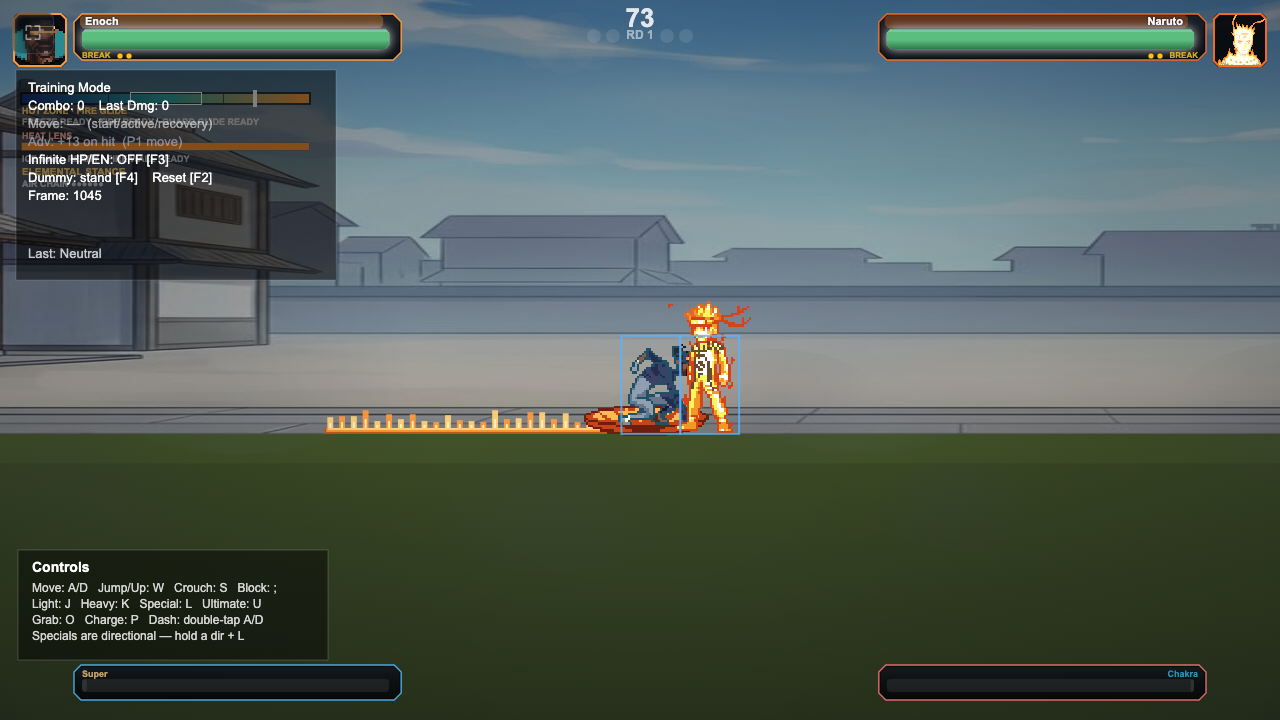
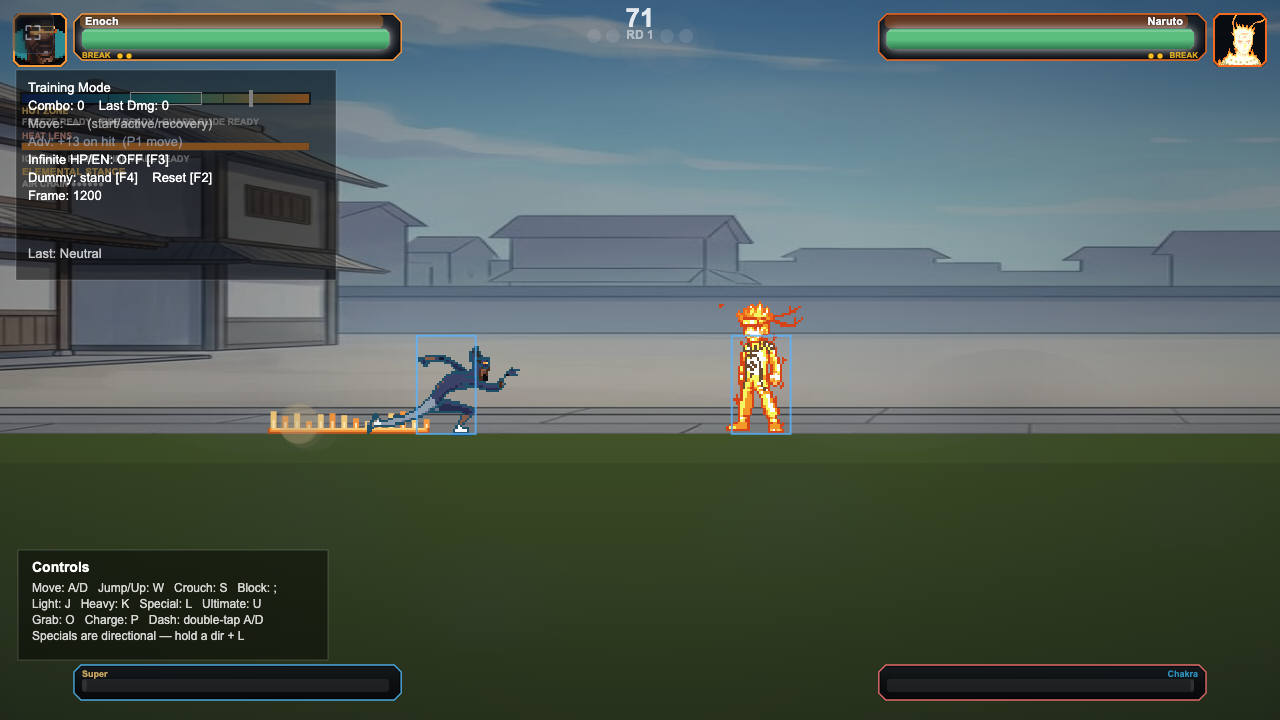
Enoch: double-tap dash is back (hold = the slide), smoother flow (input buffer, block cancels, jump + dash cancels); Controls Lab zoom uses the game camera so the HUD is never cut off
- Double-tap = the engine dash again, leaving a streak of ice (fire when hot); keep holding 12 f -> the ground slide.
- FLOW: 16 f input buffer on every cancel; cancels open on hit OR block; jump cancel + buffered dash cancel on a hit;
  air attack / Ice Blast / meteors cancel into another special (air -> meteor).
- Controls Lab: the game picture always fits the panel (no more magnified/cropped HUD); Zoom tightens the iframe
  game's own camera (padding / zoom, zoom cap x zoom). OFF / 1.25x / 1.5x.
- Tests: enoch_slide_slab 14/0 (dash, buffer, jump/dash cancels); playall 9/0 (camera zoom). Held: det 14/0,
  combo-standard 233/9, up-attack 77/2, credits 11/3, roster PASS, frame-data 16/0, Frozone 131/0, all Enoch suites,
  controls_lab 37/0, links 13/0, combos 180/0.

diff --git a/enochState.js b/enochState.js
@@ -17,7 +17,7 @@
 // Reused shared systems: `_supFrozen` freeze status (combat.js), platforms.js, beam.js (Homelander's algorithm), Elastigirl's
 // motion parser, damageType tags. Hit volumes are ENGINE projectiles (W.spawn, tagged _en) so guard, chip and combo scaling
 // apply; direct damage (bursts, beam, patches, supers) goes through W.damage with a damageType tag.
-import { ALL_MOVES, ICE_BLAST, FROST_FLOOR, HEAT_LENS, LASER, WALLS, WALL_STEAM, CHANNEL, STATUS, TWIN, AIR_SLIDE, CAGE, METEOR, SNOWMAN, MELT, PATCH_LIFE, GROUND_SLIDE, ICE_FLOOR, SLAB, SCORCH, CONDENSE, TIDE, DISC, GLIDE, GUARD_CANCEL, METER, SUPERS, SUPER_LOCK, dmg } from './enochData.js'
+import { ALL_MOVES, ICE_BLAST, FROST_FLOOR, HEAT_LENS, LASER, WALLS, WALL_STEAM, CHANNEL, STATUS, TWIN, AIR_SLIDE, CAGE, METEOR, SNOWMAN, MELT, PATCH_LIFE, GROUND_SLIDE, ICE_FLOOR, SLAB, FLOW, SCORCH, CONDENSE, TIDE, DISC, GLIDE, GUARD_CANCEL, METER, SUPERS, SUPER_LOCK, dmg } from './enochData.js'
 import { ENOCH_LENS, ENOCH_ANIM } from './enochSprites.js'
 const ENOCH_ANIM_HIT = strip => ENOCH_ANIM[strip]?.hit ?? 1   // the visor fires on the strip's HIT frame
 import { registerThermal, createThermal, thermalCheck, thermalPush, thermalTick, thermalZone, createField, addPatch, removePatch, convertPatch,
@@ -659,12 +659,21 @@ export function enochLocked(f, raw = null) {
   if (g && free && f._dashTap) {
     const here = patchesAt(s.field, ctrX(f), feetY(f)).filter(p => p.type === 'ice' || p.type === 'fire')
     if (here.length && startGlide(f, s, here[here.length - 1].type, f.facing || 1, 'tap')) { f._dashTap = false; glideStep(f, s, { ...r, [f.facing === -1 ? 'left' : 'right']: true }); return true }
-    // GROUND SLIDE: anywhere else (elemental stance) the double-tap is a slide that turns the floor to ICE — FIRE when hot.
-    // The direction held picks the way; a locked element (an overload) falls back to the plain dash.
-    const type = twinOf(f) === 'fire' ? 'fire' : 'ice', dir = r.right && !r.left ? 1 : r.left && !r.right ? -1 : (f.facing || 1)
-    if (s.stance !== 'ice' && check(f, type).ok && startGlide(f, s, type, dir, 'tap')) {
-      f._dashTap = false; s.stats.groundSlides++; lay(f, s, WREF.W, { type, cx: ctrX(f), width: GLIDE.trailW, extend: true })
-      glideStep(f, s, { ...r, [dir === -1 ? 'left' : 'right']: true }); return true
+    // anywhere else: the engine's own DASH happens (not consumed here); keep holding the direction and it becomes the SLIDE
+    if (s.stance !== 'ice') s.dashHold = { dir: r.right && !r.left ? 1 : r.left && !r.right ? -1 : (f.facing || 1), k: 0 }
+  }
+  // GROUND SLIDE: the dash with the direction still held → a slide that turns the floor to ICE (FIRE when hot);
+  // an element that's locked (an overload) just leaves the dash as it is
+  if (s.dashHold) {
+    const H = s.dashHold, held = H.dir === 1 ? r.right && !r.left : r.left && !r.right
+    if (!g || !free || !held || s.glide) s.dashHold = null
+    else if (++H.k >= GROUND_SLIDE.holdFrames) {
+      s.dashHold = null
+      const type = twinOf(f) === 'fire' ? 'fire' : 'ice'
+      if (check(f, type).ok && startGlide(f, s, type, H.dir, 'tap')) {
+        f._dashTap = false; s.stats.groundSlides++; lay(f, s, WREF.W, { type, cx: ctrX(f), width: GLIDE.trailW, extend: true })
+        glideStep(f, s, r); return true
+      }
     }
   }
   // AIR SLIDE (elemental stance; Ice Stance pours Frozone's Ice Stream from the same pool): jump, then double-tap
@@ -689,6 +698,13 @@ export function enochLocked(f, raw = null) {
     cue(f, type === 'ice' ? 'crackle' : 'fireCast'); airSlideStep(f, s, r); return true
   }
   const a = live(f)
+  // DASH CANCEL (FLOW): double-tap in the recovery of a normal / special that hit or was blocked → the dash (hold → the slide)
+  if (a && f._dashTap) s.dashBuf = { clock: s.clock, dir: r.right && !r.left ? 1 : r.left && !r.right ? -1 : (f.facing || 1) }   // held for FLOW.buffer frames
+  if (g && a && s.dashBuf && s.clock - s.dashBuf.clock <= FLOW.buffer && (a.en.clean || a.en.blocked) && FLOW.dashFrom.includes(a.en.key) && (a.total - a.timer) > (a.activeEnd ?? 0) && !(f.hitstop > 0) && s.stance !== 'ice') {
+    const dir = s.dashBuf.dir; s.dashBuf = null; endAttack(f); s.stats.dashCancels = (s.stats.dashCancels || 0) + 1
+    f.facing = dir; f.dashTimer = f.dashDuration || 8; f.dashCooldown = f.dashCooldownMax || 28; f._dashTap = false
+    s.dashHold = { dir, k: 0 }; return false
+  }
   if (a && a.en.key !== 'air' && !(a.launcher && a.hasHit)) { f._dashTap = false; return true }
   return false
 }
@@ -846,7 +862,7 @@ export function tickEnoch(f, opp, raw, W) {
   else { if (s.air.win > 0 && !s.aslide) s.air.win--; if ((f.jumpCount || 0) > s.air.jc) { s.air.armed = true; s.air.jc = f.jumpCount } }
   for (let i = s.rails.length - 1; i >= 0; i--) { const q = s.rails[i]; if (!q.live && ++q.t > AIR_SLIDE.life) { dropSlab(q); s.rails.splice(i, 1); if (q.type === 'ice') pushFx(s, 'drip', (q.x0 + q.x1) / 2, Math.max(q.y0, q.y1), 1, { w: Math.abs(q.x1 - q.x0) }) } }
   // FIRE DASH / ICE DASH (and the slide): outside the balance band his dash leaves a trail of his element
-  const tw = twinOf(f), dashing = g && !s.glide && (f.dashTimer || 0) > 0, sliding = g && live(f)?.en?.key === 'slide'
+  const tw = twinOf(f) || (s.stance !== 'ice' ? 'ice' : null), dashing = g && !s.glide && (f.dashTimer || 0) > 0, sliding = g && live(f)?.en?.key === 'slide'
   if (dashing && !s.dashWas && tw) { s.stats[tw === 'fire' ? 'fireDash' : 'iceDash']++; cue(f, tw === 'fire' ? 'fireCast' : 'crackle') }
   s.dashWas = dashing
   if (tw && (dashing || sliding) && s.tick % TWIN.trailEvery === 0) lay(f, s, W, { type: tw, cx: ctrX(f) - face * 16, width: TWIN.trailW, extend: true })

diff --git a/enoch.js b/enoch.js
@@ -16,7 +16,7 @@
 import { startMove, cancelWindowOpen, getComboScale } from './combat.js'
 import { twinOf, isEnoch, enState, startEnMove, registerEnochEngine, isEnochUltActive, switchGlide, startRamp, waterUnlocked, zoneOf, check, toggleStance } from './enochState.js'
 import { updateFrozoneCommandCombat } from './frozone.js'
-import { CHAIN, HEAVY_FROM, GLIDE, GUARD_CANCEL } from './enochData.js'
+import { CHAIN, HEAVY_FROM, GLIDE, GUARD_CANCEL, FLOW } from './enochData.js'
 
 registerEnochEngine({ startMove, comboScale: getComboScale })
 
@@ -25,7 +25,7 @@ const use = (s, k) => { if (s.edges[k]) s.used[k] = s.edges[k].tick }
 const upHeavy = s => fresh(s, 'heavy') && s.edges.heavy.tick === s.edges.upAttack?.tick   // pad Up+△ = Heavy + Up-Attack together
 const COMMITTED = new Set(['iceDisc', 'tideBreak', 'super', 'wake'])
 export const LINK_TO_NORMAL = ['heatLens']
-export const SPECIAL_FROM = ['jab', 'straight', 'heavy', 'low', 'rise', 'slide', 'frostFloor', 'deepFreeze', 'scorch', 'steamBurst']
+export const SPECIAL_FROM = ['jab', 'straight', 'heavy', 'low', 'rise', 'slide', 'frostFloor', 'deepFreeze', 'scorch', 'steamBurst', 'air', 'iceBlast', 'meteor', 'fireMeteor']
 export const SUPER_FROM = ['jab', 'straight', 'heavy', 'low', 'slide', 'frostFloor', 'deepFreeze', 'scorch', 'steamBurst', 'tideBreak', 'iceBlast', 'heatLens', 'condense', 'iceWall', 'fireWall']
 
 const meteorKey = f => twinOf(f) === 'fire' ? 'fireMeteor' : 'meteor'
@@ -90,20 +90,26 @@ export function updateEnochCommandCombat(f, inp, opp, W) {
   if (s.ramp && !g && !a && s.ramp.air > 0 && (fresh(s, 'light') || fresh(s, 'heavy') || fresh(s, 'upAttack'))) {
     use(s, 'light'); use(s, 'heavy'); use(s, 'upAttack'); s.ramp.air = 0; fire('air', { bonus: GLIDE.atkBonus }); return 'consumed'
   }
-  const contact = !!a?.en?.clean && cancelWindowOpen(f)
+  const contact = !!(a?.en?.clean || a?.en?.blocked) && cancelWindowOpen(f), B = FLOW.buffer   // hit OR block opens the cancel
   // the SUPER cancels out of any clean special, committed ones included (Tide Break → Thermal Shock is the brief's combo 5)
-  if (contact && fresh(s, 'special') && SUPER_FROM.includes(a.name) && specialKey(f, s.edges.special) === 'super') {
+  if (contact && fresh(s, 'special', B) && SUPER_FROM.includes(a.name) && specialKey(f, s.edges.special) === 'super') {
     use(s, 'special'); if ((f.energy || 0) >= 100) fire('super', { cancel: true }); return 'consumed'
   }
   if (a && COMMITTED.has(a.en?.key)) return 'consumed'
-  if (contact && CHAIN[a.name] && fresh(s, 'light')) { use(s, 'light'); fire(CHAIN[a.name], { cancel: true }); return 'consumed' }
-  if (contact && LINK_TO_NORMAL.includes(a.name) && fresh(s, 'light')) { const e = s.edges.light; use(s, 'light'); fire(e.fwd ? 'straight' : 'jab', { cancel: true }); return 'consumed' }   // a clean Heat Lens → Straight / Jab
-  if (contact && SPECIAL_FROM.includes(a.name) && fresh(s, 'special')) { const k = specialKey(f, s.edges.special); use(s, 'special'); if (k !== a.name) fire(k, { cancel: true }); return 'consumed' }
-  if (contact && fresh(s, 'heavy')) {
+  if (contact && CHAIN[a.name] && fresh(s, 'light', B)) { use(s, 'light'); fire(CHAIN[a.name], { cancel: true }); return 'consumed' }
+  if (contact && LINK_TO_NORMAL.includes(a.name) && fresh(s, 'light', B)) { const e = s.edges.light; use(s, 'light'); fire(e.fwd ? 'straight' : 'jab', { cancel: true }); return 'consumed' }   // a clean Heat Lens → Straight / Jab
+  if (contact && SPECIAL_FROM.includes(a.name) && fresh(s, 'special', B)) { const k = g ? specialKey(f, s.edges.special) : meteorKey(f); use(s, 'special'); if (k !== a.name) fire(k, { cancel: true }); return 'consumed' }
+  if (contact && fresh(s, 'heavy', B)) {
     const k = heavyKey(f, s.edges.heavy)
     if (k === 'heavy' ? HEAVY_FROM.includes(a.name) : (SPECIAL_FROM.includes(a.name) && k !== a.name)) { use(s, 'heavy'); fire(k, { cancel: true }); return 'consumed' }
   }
   if (contact && a.name === 'heavy' && fresh(s, 'upAttack')) { use(s, 'upAttack'); return 'consumed' }
+  // JUMP CANCEL (on a hit): straight up out of the normal — into the air chain, an air attack or the meteor
+  if (contact && g && a.en.clean && FLOW.jumpFrom.includes(a.name) && (fresh(s, 'jump', B) || fresh(s, 'up', B)) && !fresh(s, 'special', B) && !fresh(s, 'heavy', B) && !fresh(s, 'light', B)) {
+    use(s, 'jump'); use(s, 'up'); f.attacking = false; f.currentAttack = null; f.currentMove = null; f.attackCooldown = 0
+    f.vy = f.jumpForce || -22; f.onGround = false; f.grounded = false; f.jumpCount = 1; f.jumpHeld = true; s.stats.jumpCancels = (s.stats.jumpCancels || 0) + 1
+    return 'consumed'
+  }
   if (a && !contact) return 'consumed'
   if (!a && (f.attackCooldown > 0 || inp.block)) return 'grab'
   if (fresh(s, 'ultimate')) { use(s, 'ultimate'); if (!a && g && (f.energy || 0) >= 100) fire('super'); return 'consumed' }   // Ultimate button = the super too

diff --git a/enochKit.js b/enochKit.js
@@ -7,7 +7,8 @@ export const ENOCH_CONTROLS = {
     // EVERY move has a ONE-direction input (hold the direction, press the button). The ↓↘→ motions still work but are optional.
     ['Move / crouch', 'A / D, S', '← / →, ↓', 'Left stick / D-pad'],
     ['Jump / double jump', 'W, W again', '↑, ↑ again', '✕ Cross, ✕ again'],
-    ['ICE SLIDE (hot: FIRE SLIDE) — the floor turns to ice / fire', 'double-tap A / D', 'double-tap ← / →', 'double-tap left / right'],
+    ['Dash (leaves a streak of ice — fire when hot)', 'double-tap A / D', 'double-tap ← / →', 'double-tap left / right'],
+    ['ICE SLIDE (hot: FIRE SLIDE) — the floor turns to ice / fire', 'double-tap A / D and keep holding', 'double-tap ← / → and keep holding', 'double-tap left / right and keep holding'],
     ['Jab → Straight → Frost palm', 'J, J, K', '1, 1, 2', '□, □, △'],
     ['Low sweep · Rising palm · Air strike', 'S + J · I · air J', '↓ + 1 · 3 · air 1', 'Down + □ · Up + △ · air □'],
     ['ICE BLAST (hot: FIRE SHARD)', 'L', '4', 'R1'],
@@ -59,7 +60,7 @@ export const ENOCH_KIT = { type: 'Elemental Controller / Trail Glider', energy: 
     { name: 'Fire Wall', input: 'Forward + Heavy (also →↓↘ + Heavy; Back + Heavy when hot)', cost: '15 hot', desc: `A flame column ahead for ${WALLS.fire.life / 60} s: not solid, burns anyone inside (${WALLS.fire.tickRaw} every ${WALLS.fire.tickEvery} f), burns away ${WALLS.fire.hp} enemy shots; lays FIRE. Raised on his Ice Wall = a STEAM BURST (${WALL_STEAM.raw}, launches). 4 s cooldown.` },
     { name: 'ICE SPIKE / FIRE RAIN', input: 'Up + Special (or Special in the air)', cost: '18 cold (hot: 22 hot)', desc: `He throws his fist up. COLD / BALANCE: one giant ICE SPIKE drops point-first on the foe (raw ${r(S.meteor)}): they FREEZE where they stand as the ice climbs up over them (${(METEOR.ice.freeze / 60).toFixed(1)} s), then it shatters; leaves ICE. HOT: the FIRE RAIN — a jet of fire goes up and ${METEOR.fire.n} comets rain down around the foe for ~2.5 s at random-looking times and spots, following them (raw ${METEOR.fire.raw} each, they burn and leave FIRE). A ring on the floor shows where each lands. Cooldown ${S.meteor.cooldown / 60} s (rain ${S.fireMeteor.cooldown / 60} s).` },
     { name: 'SNOWMAN', input: 'Back + Charge', cost: '15 cold', desc: `He sculpts a snowman ahead: SOLID like the Ice Wall (blocks bodies, stops ${SNOWMAN.hp} enemy shots) for ${SNOWMAN.life / 60} s, then it melts into a WATER puddle. Fire next to it (his fire patch or Fire Wall) melts it ${SNOWMAN.fireMelt}× faster. ${S.snowman.cooldown / 60} s cooldown.` },
-    { name: 'ICE SLIDE / FIRE SLIDE', input: 'Double-tap toward', cost: '6 cold / hot a second', desc: 'Double-tap anywhere on the ground: he slides and the floor turns to ICE under him (FIRE when hot). Hold the direction to keep sliding. An opponent on his ice loses health and slides off it; on his fire they burn.' },
+    { name: 'ICE SLIDE / FIRE SLIDE', input: 'Double-tap toward, keep holding', cost: '6 cold / hot a second', desc: 'A quick double-tap is his dash. Double-tap and keep holding the direction: the dash turns into a slide and the floor turns to ICE under him (FIRE when hot). Hold the direction to keep sliding. An opponent on his ice loses health and slides off it; on his fire they burn.' },
     { name: 'AIR SLIDE + AIR CHAIN', input: 'Jump, then double-tap toward', cost: '6 cold / hot', desc: `In the air, double-tap: he slides on a slab of ice (FIRE when hot) and hits whoever he passes. The slab stays SOLID for 7 s: he can land on it; an opponent who lands on it is hurt and shoved off, and they can't jump up through it. Press Jump during / right after the slide = a HOP, then double-tap again: up to ${AIR_SLIDE.chainMax} slides before he lands — each hop lower, each slide shorter and the timing tighter. Landing resets it.` },
     { name: 'CHANNEL COLD / HEAT', input: 'Down + Charge (hold)', cost: '—', desc: 'Hold Down + Charge to cool down (ice moves stronger, Frost Lens), Up + Charge to heat up (fire twins, Fire Wall). Rooted while held.' },
     { name: 'Scorch Sweep', input: '↓↙← + Heavy', cost: '20 hot', desc: `Raw ${r(S.scorch)} energy arc + a FIRE patch ahead.` },

diff --git a/controls_lab/lab.js b/controls_lab/lab.js
@@ -46,6 +46,7 @@ async function selectChar(key, { initial = false } = {}) {
     return
   }
   S.roster = eng.roster()
+  applyCamZoom()   // a new game page = a fresh camera
   if (!S.roster.find(r => r.key === key) && S.roster.length && initial) return selectChar(S.roster[0].key)
   S.key = key
   const C = eng.mods.characters[key]
@@ -86,19 +87,19 @@ function setAccent(hex) {
 // ZOOM (Lab-side, presentation only): the arena is the whole game screen shrunk into a panel, so the fighters look small.
 // With zoom on, the iframe is magnified ×ZOOM and panned (smoothly, every logic frame) to keep both fighters — and a bit of
 // sky for falling attacks — in the middle. The game itself, its camera and the sim are untouched.
-const ZOOMS = [1, 1.25, 1.5]                       // the Zoom button cycles these; 1.25× by default (the whole fight stays in view)
+const ZOOMS = [1, 1.25, 1.5]                       // the Zoom button cycles these; 1.25× by default
+// Zoom drives the GAME'S OWN camera (tighter framing + a higher zoom cap), not a magnified picture of the screen —
+// so the fighters get bigger while the health bars, gauges and edges of the arena stay whole and in place.
+const CAM0 = { maxZoom: 1.15, horizontalPadding: 280, verticalPadding: 260 }
+function applyCamZoom() {
+  const cam = eng?.mods?.camera, z = S.zoom || 1; if (!cam) return
+  cam.maxZoom = CAM0.maxZoom * z; cam.horizontalPadding = CAM0.horizontalPadding / z; cam.verticalPadding = CAM0.verticalPadding / z
+}
 function fitArena() {
   const box = $("#arenaBox").getBoundingClientRect()
   const k = box.width / 1440
   S.arenaScale = k
-  const z = S.zoom || 1, K = k * z
-  let tx = 0, ty = 0
-  if (z > 1) {
-    const f = focusPoint() || S.focusPt || { x: 720, y: 520 }
-    S.focusPt = S.focusPt ? { x: S.focusPt.x + (f.x - S.focusPt.x) * 0.15, y: S.focusPt.y + (f.y - S.focusPt.y) * 0.15 } : f
-    tx = Math.min(0, Math.max(box.width - 1440 * K, box.width / 2 - S.focusPt.x * K))
-    ty = Math.min(0, Math.max(box.height - 810 * K, box.height * 0.62 - S.focusPt.y * K))
-  }
+  const K = k, tx = 0, ty = 0                       // the WHOLE game screen always fits (the HUD is never cut off)
   S.view = { K, tx, ty }
   $("#game").style.transform = `translate(${tx}px, ${ty}px) scale(${K})`
 }
@@ -114,7 +115,7 @@ function focusPoint() {
 }
 function setZoom(z) {
   S.zoom = ZOOMS.includes(z) ? z : 1.25; lsSet(LS.zoom2, S.zoom); S.focusPt = null
-  $("#zoomBtn").textContent = `🔍 Zoom: ${S.zoom === 1 ? "OFF" : S.zoom + "×"}`; fitArena(); if (S.boxes) drawBoxes()
+  $("#zoomBtn").textContent = `🔍 Zoom: ${S.zoom === 1 ? "OFF" : S.zoom + "×"}`; applyCamZoom(); fitArena(); if (S.boxes) drawBoxes()
 }
 const toggleZoom = () => setZoom(ZOOMS[(ZOOMS.indexOf(S.zoom) + 1) % ZOOMS.length])
 window.addEventListener("resize", fitArena)
@@ -131,7 +132,6 @@ function onFrame(ev) {
   const raw = ev.scripted ? ev.raw : (userRaw || {})
   pushHistory(raw, ev.scripted, ev.p1?.facing >= 0 ? 1 : -1)
   if (S.task && S.task.onFrame) S.task.onFrame(ev, raw)
-  if (S.zoom > 1) fitArena()
   if (S.boxes) drawBoxes()
   if (ctl) ctl.setFacing(ev.p1?.facing >= 0 ? 1 : -1)
   // the game pauses on Options/Escape; the Lab owns those buttons, so un-pause straight away

diff --git a/enochData.js b/enochData.js
@@ -35,6 +35,10 @@ export const ENOCH_MOVES = {
 export const NORMAL_KEYS = Object.keys(ENOCH_MOVES)
 export const CHAIN = { jab: 'straight', straight: 'heavy' }          // Jab → Straight → Heavy (clean-hit retaps)
 export const HEAVY_FROM = ['jab', 'straight', 'low']
+// FLOW: a press made during a move is held for `buffer` frames (so it comes out as soon as the cancel opens, not dropped);
+// cancels open on a hit OR a block; on a HIT his normals jump-cancel (straight into the air chain / meteor) and
+// dash-cancel (double-tap → dash, hold → the slide).
+export const FLOW = { buffer: 16, jumpFrom: ['jab', 'straight', 'low', 'heavy', 'rise', 'slide'], dashFrom: ['jab', 'straight', 'low', 'heavy', 'slide', 'iceBlast', 'frostFloor', 'deepFreeze', 'scorch', 'steamBurst'] }
 
 // ── SPECIALS (thermal-gated; `el` = the element the thermal profile checks; `th` = thermal push, ± = colder / hotter;
 // `away` = pushed AWAY from 0 (water moves). Damage is the brief's raw value; the own-zone ×1.15 applies on top.)
@@ -116,9 +120,10 @@ export const METEOR = { from: 560, vy0: 8, grav: 1.1, vx: 0,
 export const SNOWMAN = { ahead: 104, w: 58, h: 124, rise: 14, life: 720, hp: 5, melt: 90, fireMelt: 4, patch: 100 }
 // MELTING: his ice that runs out (ice patches, walls, slabs, the snowman) turns into a WATER puddle (`width` of the ice) that
 // later evaporates; the last `warn` frames of ice show it melting (thinner, dripping).
-// GROUND SLIDE: a double-tap anywhere on the ground = a glide that turns the floor under him to ICE (FIRE when hot);
-// it runs at least `minFrames` even with the direction let go (hold the direction to keep going).
-export const GROUND_SLIDE = { minFrames: 26 }
+// DOUBLE-TAP = his DASH (it leaves a streak of ice — fire when hot); KEEP HOLDING the direction for `holdFrames` and the
+// dash turns into the GROUND SLIDE: a glide that turns the floor under him to ICE (FIRE when hot), for as long as it's held
+// (at least `minFrames`). On his own ice / fire the double-tap glides straight away, as before.
+export const GROUND_SLIDE = { minFrames: 26, holdFrames: 12 }
 // HIS FLOOR vs the opponent: on his ICE they lose `raw` every `every` frames (+ chill) and are slid off toward the nearest
 // edge at `push` px / frame; his FIRE already burns (the element's DoT + burn).
 export const ICE_FLOOR = { every: 20, raw: 4, chill: 0.25, push: 3 }

diff --git a/controls_lab/engine.js b/controls_lab/engine.js
@@ -54,7 +54,7 @@ export class LabEngine {
     await waitFor(() => w.__harness && w.__harness.boot)
     // Import the game's modules FROM INSIDE the game page: an inline module script in the iframe document resolves
     // through that page's import map + module map, so these are the very instances the running game uses.
-    const MODS = ["input", "kits", "characters", "academy", "padLayout", "theme", "sound", "padStick"]
+    const MODS = ["input", "kits", "characters", "academy", "padLayout", "theme", "sound", "padStick", "camera"]
     const doc = w.document, sc = doc.createElement("script")
     sc.type = "module"
     sc.textContent = MODS.map((m, i) => `import * as m${i} from "./${m}.js"`).join("\n") +
@@ -62,7 +62,7 @@ export class LabEngine {
     doc.head.appendChild(sc)
     const M = await waitFor(() => w.__labMods, 20000)
     this.mods = { input: M.input, kits: M.kits, characters: M.characters.characters, academy: M.academy, padLayout: M.padLayout,
-      theme: M.theme, sound: M.sound.sound || M.sound.default, SFX: M.sound.SFX, padStick: M.padStick }
+      theme: M.theme, sound: M.sound.sound || M.sound.default, SFX: M.sound.SFX, padStick: M.padStick, camera: M.camera.camera }
     this.h = w.__harness
     this.h.boot()
     this.controls = this.h.controls ? this.h.controls() : null

diff --git a/docs/enoch/BALANCE_NOTES.md b/docs/enoch/BALANCE_NOTES.md
@@ -155,3 +155,12 @@ The brief's values, verified live against a blocking dummy:
 - AIR SLABS: one-way platforms (platforms.js) for 7 s. Opponent landing = raw 22 (chill / burn) + shoved off the nearer
   edge (vx 7, vy −5), 0.5 s per-slab cooldown; rising into one = head bonk. He can stand on them. Removed with the slab.
 - Controls Lab zoom default 1.7× → 1.25× (owner: too zoomed in); the button cycles OFF / 1.25× / 1.5×.
+
+### 2026-11-16 (night): dash back, smoother flow, Lab zoom via the game camera
+- Double-tap = the engine dash again (streak of ice; fire when hot). Held 12 f more → the ground slide. On his own patch the
+  double-tap still glides at once.
+- FLOW: presses held 16 f (buffer) for every cancel; cancels open on a hit OR a block; JUMP CANCEL on a hit (jab / straight /
+  low / heavy / rise / slide); DASH CANCEL (buffered double-tap) out of normals + ground specials that hit / were blocked;
+  air attack, Ice Blast and the meteors now cancel into another special (air → the meteor). Cooldowns + combo scaling cap loops.
+- Controls Lab: Zoom no longer magnifies the game picture (that cut off the HUD); it tightens the game's own camera
+  (padding ÷ zoom, zoom cap × zoom) inside the Lab page only. The whole game screen always fits the panel.
